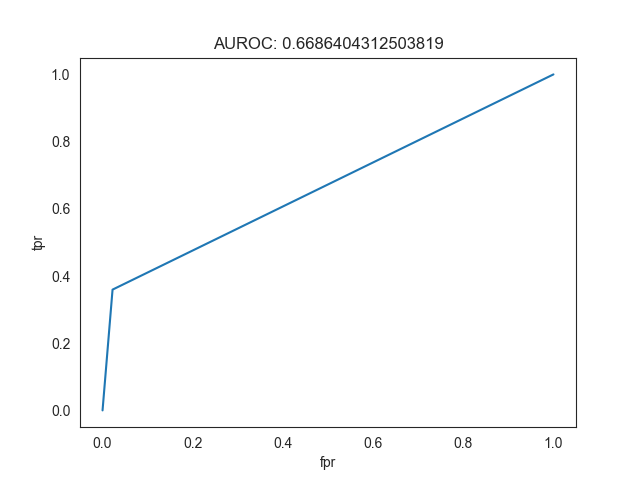
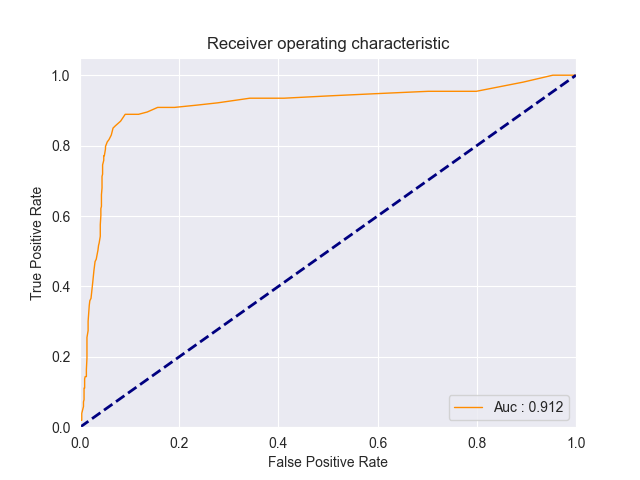
modularization refactor

diff --git a/Projects/customer_churn/utils.py b/Projects/customer_churn/utils.py
@@ -1,15 +1,13 @@
 import numpy as np
 import pandas as pd
-from sklearn.metrics import ConfusionMatrixDisplay, roc_curve, roc_auc_score
+from sklearn.metrics import roc_curve, roc_auc_score
+from sklearn.metrics import confusion_matrix
 
-from sklearn.tree import export_graphviz
-from IPython.display import Image, display
-import graphviz
-import pydot
 
 import seaborn as sns
 import matplotlib.pyplot as plt
-sns.set_style("white")
+# sns.set_style("white")
+sns.set_style('darkgrid')
 
 
 def plot_feature_correlation_matrix(df):
@@ -76,22 +74,46 @@ def generate_one_hot_columns(df, cat_cols):
     return df
 
 
-def compose_confusion_matrix_plot(cm):
+def compose_confusion_matrix_plot(y_val, y_pred):
     f, ax = plt.subplots()
-    ConfusionMatrixDisplay(confusion_matrix=cm).plot()
+    cm = confusion_matrix(y_val, y_pred)
+    sns.heatmap(cm, fmt="d", annot=True, cmap='Blues')
+    plt.title('Confusion Matrix')
+    plt.ylabel('True Values')
+    plt.xlabel('Predicted Values')
     plt.savefig("plots/confusion_matrix.png")
 
 
-def generate_auc_curve(y, scores):
-    fpr, tpr, thresholds = roc_curve(y, scores, pos_label=1)
-    auc_score = roc_auc_score(y, scores)
+def generate_auc_curve(y, probabilities):
+    fpr, tpr, thresholds = roc_curve(y, probabilities, pos_label=1)
+    auc_score = roc_auc_score(y, probabilities)
 
     f, ax = plt.subplots()
-    sns.lineplot(x=fpr, y=tpr)
-    ax.set_ylabel("tpr")
-    ax.set_xlabel("fpr")
-    ax.set_title(f"AUROC: {auc_score}")
+    plt.plot(fpr, tpr, color='darkorange', lw=1, label="Auc : %.3f" % auc_score)
+    plt.plot([0, 1], [0, 1], color='navy', lw=2, linestyle='--')
+    plt.xlim([0.0, 1.0])
+    plt.ylim([0.0, 1.05])
+    plt.xlabel('False Positive Rate')
+    plt.ylabel('True Positive Rate')
+    plt.title(f'Receiver operating characteristic')
+    plt.legend(loc="lower right")
     plt.savefig("plots/auc.png")
+
+
+def plot_feature_importance(x, classifier):
+    features = pd.DataFrame({"features": x.columns.tolist()})
+    importance = pd.DataFrame(classifier.feature_importances_).rename(columns={0: "importance"})
+
+    coef_sumry = pd.concat([features, importance], axis=1)
+    coef_sumry = coef_sumry.sort_values(by="importance", ascending=False)
+    coef_sumry = coef_sumry.head(10)
+
+    f, ax = plt.subplots()
+    sns.barplot(x=coef_sumry["features"], y=coef_sumry["importance"])
+    plt.title('Feature Importance')
+    plt.xticks(rotation="vertical")
+    plt.tight_layout()
+    plt.savefig("plots/feature_importance.png")
 
 
 def plot_summary_scatterplots(df):
@@ -100,3 +122,29 @@ def plot_summary_scatterplots(df):
     f.map_diag(sns.histplot)
     f.map_offdiag(sns.scatterplot)
     plt.savefig("plots/scatterplots_summary.png")
+
+
+def data_cleanup(filepath):
+    df = pd.read_csv(filepath)
+    df.drop(["id"], inplace=True, axis=1)
+
+    # handle null values
+    df.replace(" ", np.nan)
+    df.fillna(0, inplace=True)
+
+    # standardize column format
+    df.rename(str.lower, axis='columns', inplace=True)
+    df = df.rename(columns={col: col.replace(' ', '_') for col in df.columns})
+    df = df.rename(columns={col: col.replace('-', '_') for col in df.columns})
+    return df
+
+
+def training_data_preparation(df):
+    # split out validation data
+    x = df.drop(columns=['target'])
+    y = df['target']
+
+    # convert categorical to numerical values
+    cols_to_onehot = df.copy().select_dtypes(include=['object', 'category']).columns
+    x = generate_one_hot_columns(x, cols_to_onehot)
+    return x, y

diff --git a/Projects/customer_churn/data_exploration.py b/Projects/customer_churn/data_exploration.py
@@ -1,13 +1,8 @@
 import pandas as pd
 from customer_churn.utils import (
     plot_feature_correlation_matrix, plot_summary_histplots, plot_summary_violinplots,
-    generate_one_hot_columns, plot_target_counts, generate_auc_curve,
-    compose_confusion_matrix_plot, plot_summary_scatterplots
+    plot_target_counts, plot_summary_scatterplots
 )
-from sklearn.ensemble import RandomForestClassifier
-from sklearn.metrics import accuracy_score, confusion_matrix, precision_score, recall_score
-from sklearn.model_selection import RandomizedSearchCV, train_test_split
-import matplotlib.pyplot as plt
 
 # load data
 train_df = pd.read_csv("data/train.csv")
@@ -26,8 +21,6 @@ test_df = test_df.rename(columns={col: col.replace('-', '_') for col in train_df
 print(f"training dataset shape: {train_df.shape}")
 categorical_cols_df = train_df.copy().select_dtypes(include=['object', 'category'])
 continuous_cols_df = train_df.drop(columns=categorical_cols_df.columns)
-# print(categorical_cols_df.shape)
-# print(categorical_cols_df.value_counts())
 
 # visualize data
 continuous_notarget_df = continuous_cols_df.drop(columns=["target"])
@@ -37,42 +30,7 @@ plot_summary_histplots(categorical_cols_df)
 plot_summary_violinplots(continuous_cols_df)
 plot_target_counts(continuous_cols_df)
 
-# split out validation data
-x = train_df.drop(columns=['target'])
-y = train_df['target']
 
-# remove unusable features
-x = x.drop(columns=['id'])
-cols_to_onehot = [col for col in categorical_cols_df.columns if col != 'id']
-
-# convert categorical to numerical values
-x = generate_one_hot_columns(x, cols_to_onehot)
-
-# split data
-x_train, x_val, y_train, y_val = train_test_split(x, y, test_size = 0.2, random_state = 42)
-
-# train random forest model
-clf = RandomForestClassifier(max_depth=100, random_state=0, class_weight="balanced")
-clf.fit(x_train, y_train)
-
-# make predictions
-y_pred = clf.predict(x_val)
-
-# evaluate model using validation data
-accuracy = accuracy_score(y_val, y_pred)
-precision = precision_score(y_val, y_pred)
-recall = recall_score(y_val, y_pred)
-
-print("Accuracy:", accuracy)
-print("Precision:", precision)
-print("Recall:", recall)
-
-cm = confusion_matrix(y_val, y_pred)
-
-
-# visualize results
-compose_confusion_matrix_plot(cm)
-generate_auc_curve(y_val, y_pred)
 
 
 

diff --git a/Projects/customer_churn/customer_churn_model.py b/Projects/customer_churn/customer_churn_model.py
@@ -1,0 +1,42 @@
+import pandas as pd
+from customer_churn.utils import (
+    generate_auc_curve, compose_confusion_matrix_plot, plot_feature_importance,
+    data_cleanup, training_data_preparation
+)
+from sklearn.ensemble import RandomForestClassifier
+from sklearn.metrics import accuracy_score, precision_score, recall_score
+from sklearn.model_selection import train_test_split
+
+# access data
+train_df = data_cleanup("data/train.csv")
+test_df = data_cleanup("data/test.csv")
+
+x, y = training_data_preparation(train_df)
+
+# split data
+x_train, x_val, y_train, y_val = train_test_split(x, y, test_size = 0.2, random_state = 42)
+print(x_train.head())
+
+# train random forest model
+clf = RandomForestClassifier(max_depth=100, random_state=0, class_weight="balanced")
+clf.fit(x_train, y_train)
+
+# make predictions
+y_pred = clf.predict(x_val)
+probabilities = clf.predict_proba(x_val)[:, 1]
+
+# evaluate model using validation data
+accuracy = accuracy_score(y_val, y_pred)
+precision = precision_score(y_val, y_pred)
+recall = recall_score(y_val, y_pred)
+
+print("Accuracy:", accuracy)
+print("Precision:", precision)
+print("Recall:", recall)
+
+# visualize results
+compose_confusion_matrix_plot(y_val, y_pred)
+generate_auc_curve(y_val, probabilities)
+
+# explainable AI
+plot_feature_importance(x_train, clf)
